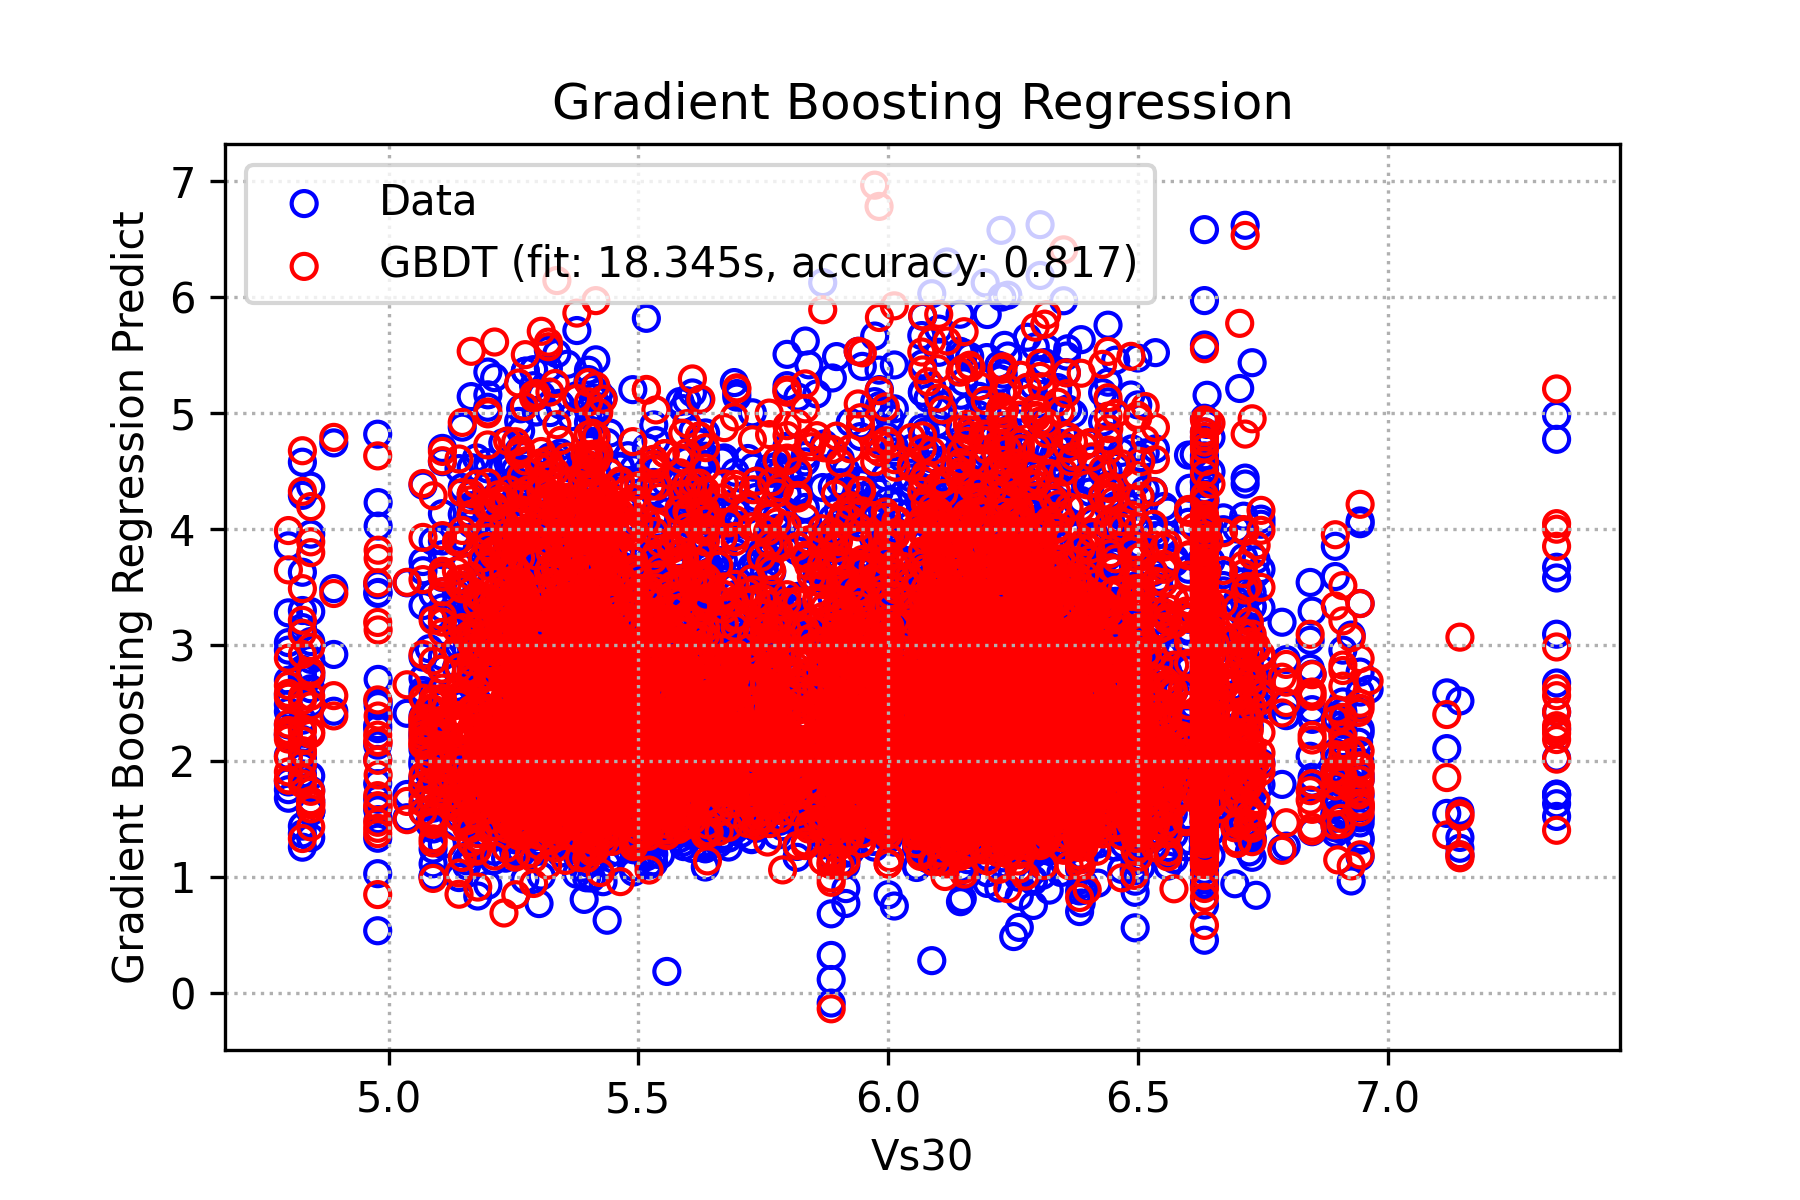
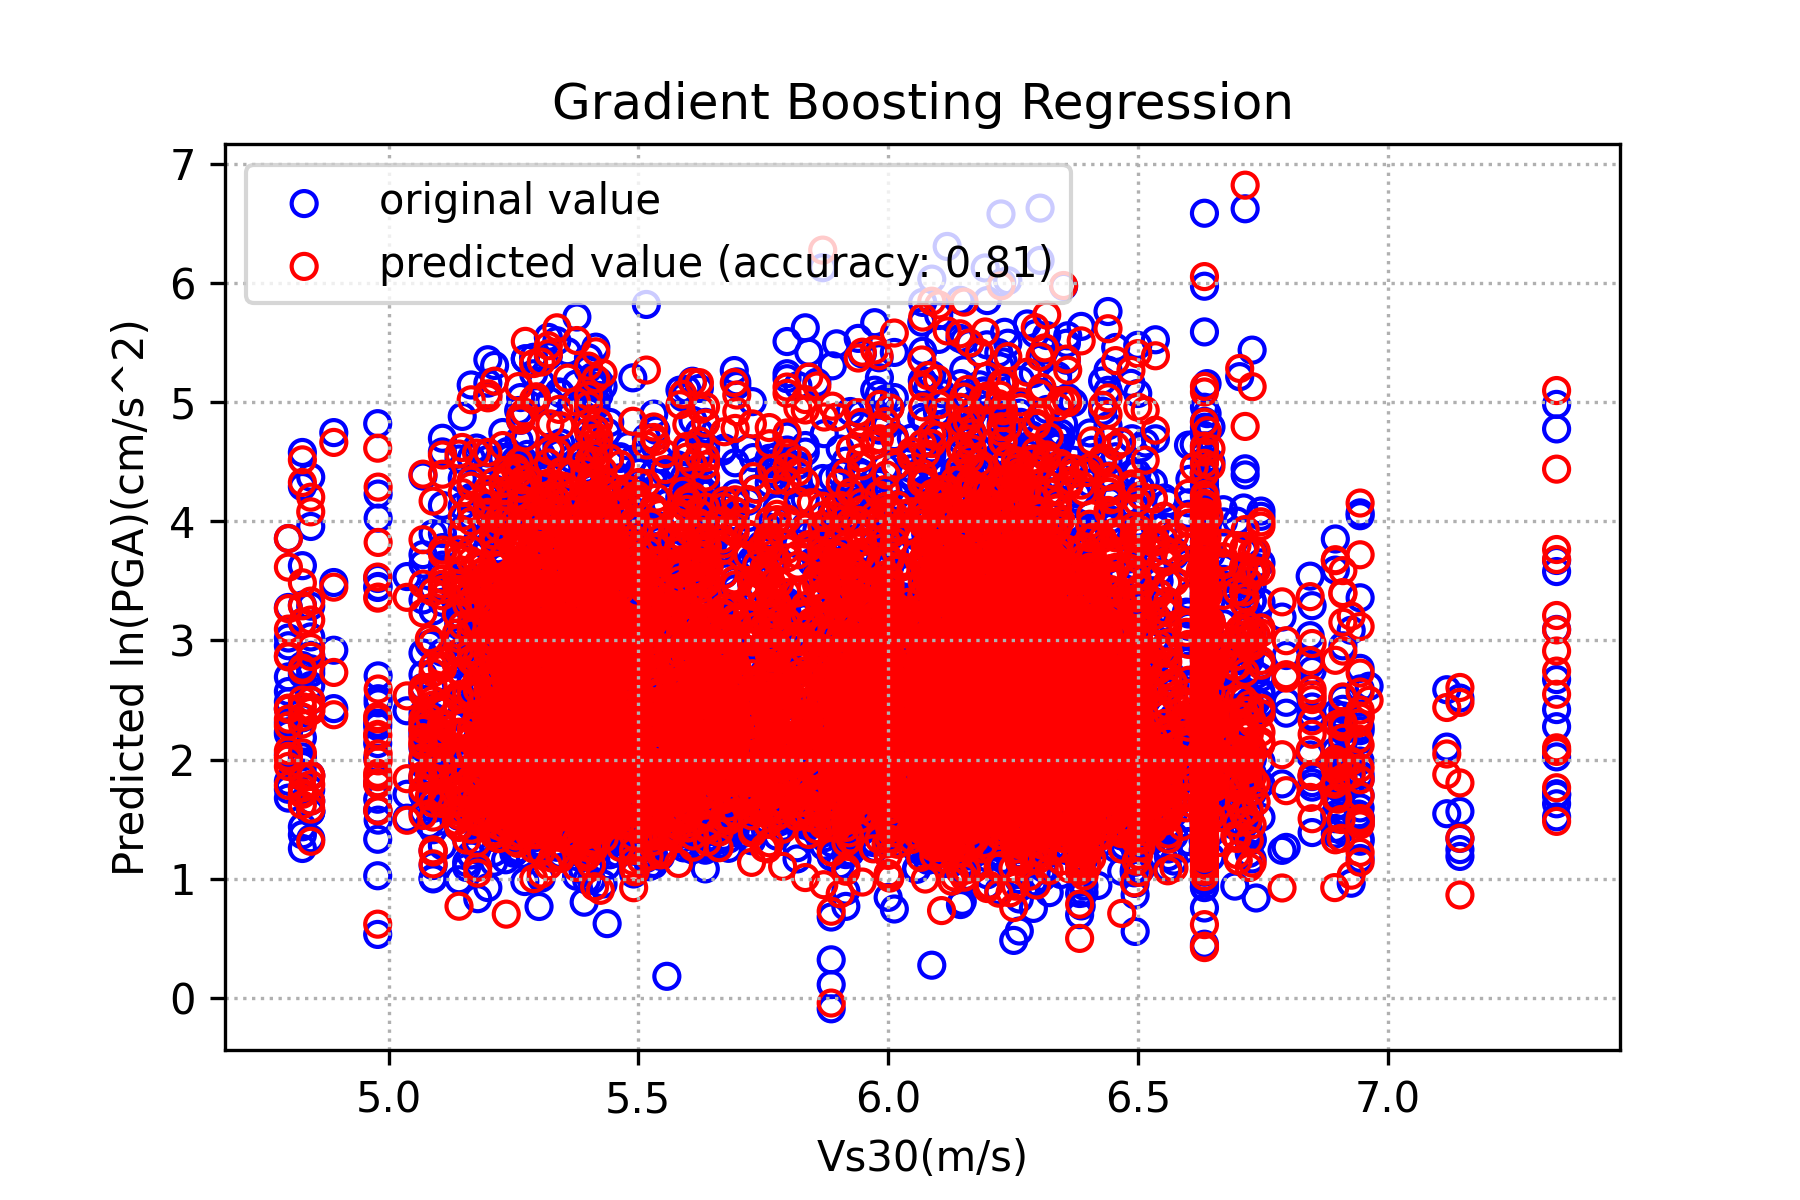
rejust figure

diff --git a/machine_learning/design_pattern/plot_figure.py b/machine_learning/design_pattern/plot_figure.py
@@ -28,11 +28,11 @@ class plot_fig:
                     marker='o',
                     facecolors='none',
                     edgecolors='b',
-                    label='Data')  #數據點
+                    label='original value')  #數據點
         plt.scatter(x_test[:,0], predict_value,marker='o',facecolors='none',edgecolors='r', \
-            label=f'{self.abbreviation_name} (fit: %.3fs, accuracy: %.3f)' % (fit_time, score)) #迴歸線
+            label=f'predicted value (accuracy: %.2f)' % (score)) #迴歸線
         plt.xlabel('Vs30(m/s)')
-        plt.ylabel(f'{self.model_name} Predict')
+        plt.ylabel(f'Predicted ln(PGA)(cm/s^2)')
         plt.title(f'{self.model_name}')
         plt.legend()
         plt.savefig(
@@ -47,11 +47,11 @@ class plot_fig:
                     marker='o',
                     facecolors='none',
                     edgecolors='b',
-                    label='Data')  #數據點
+                    label='original value')  #數據點
         plt.scatter(x_test[:,1], predict_value,marker='o',facecolors='none',edgecolors='r', \
-            label=f'{self.abbreviation_name} (fit: %.3fs, accuracy: %.3f)' % (fit_time, score)) #迴歸線
+            label=f'predicted value (accuracy: %.2f)' % (score)) #迴歸線
         plt.xlabel('Mw')
-        plt.ylabel(f'{self.model_name} Predict')
+        plt.ylabel(f'Predicted ln(PGA)(cm/s^2)')
         plt.title(f'{self.model_name}')
         plt.legend()
         plt.savefig(
@@ -66,15 +66,15 @@ class plot_fig:
                     marker='o',
                     facecolors='none',
                     edgecolors='b',
-                    label='Data')  #數據點
+                    label='original value')  #數據點
         plt.scatter(x_test[:,2], predict_value,marker='o',facecolors='none',edgecolors='r', \
-            label=f'{self.abbreviation_name} (fit: %.3fs, accuracy: %.3f)' % (fit_time, score)) #迴歸線
+            label=f'predicted value (accuracy: %.2f)' % (score)) #迴歸線
         plt.xlabel('ln(Rrup)(km)')
-        plt.ylabel(f'{self.model_name} Predict')
+        plt.ylabel(f'Predicted ln(PGA)(cm/s^2)')
         plt.title(f'{self.model_name}')
         plt.legend()
         plt.savefig(
-            f'../{self.abbreviation_name}/{self.SMOGN_TSMIP} Rrup-{self.model_name} Predict.png',
+            f'../{self.abbreviation_name}/{self.SMOGN_TSMIP} Rrup-{self.abbreviation_name} Predict.png',
             dpi=300)
         plt.show()
 
@@ -150,9 +150,9 @@ class plot_fig:
         plt.xlim(1e2, 2 * 1e3)
         plt.ylim(-3, 3)
         plt.xlabel('Vs30(m/s)')
-        plt.ylabel('Residual lnPGA(cm/s^2)')
+        plt.ylabel('Residual ln(PGA)(cm/s^2)')
         plt.title(
-            f'{self.SMOGN_TSMIP} {self.abbreviation_name} Predict Residual R2 score: %.3f'
+            f'{self.SMOGN_TSMIP} {self.abbreviation_name} Predicted Residual R2 score: %.3f'
             % (score))
         plt.savefig(
             f'../{self.abbreviation_name}/{self.SMOGN_TSMIP} Vs30-{self.abbreviation_name} Predict Residual.png',
@@ -218,9 +218,9 @@ class plot_fig:
         plt.xlim(3, 8)
         plt.ylim(-3, 3)
         plt.xlabel('Mw')
-        plt.ylabel('Residual lnPGA(cm/s^2)')
+        plt.ylabel('Residual ln(PGA)(cm/s^2)')
         plt.title(
-            f'{self.SMOGN_TSMIP} {self.abbreviation_name} Predict Residual R2 score: %.3f'
+            f'{self.SMOGN_TSMIP} {self.abbreviation_name} Predicted Residual R2 score: %.3f'
             % (score))
         plt.savefig(
             f'../{self.abbreviation_name}/{self.SMOGN_TSMIP} Mw-{self.abbreviation_name} Predict Residual.png',
@@ -286,9 +286,9 @@ class plot_fig:
         plt.xlim(5 * 1e0, 1e3)
         plt.ylim(-3, 3)
         plt.xlabel('Rrup(km)')
-        plt.ylabel('Residual lnPGA(cm/s^2)')
+        plt.ylabel('Residual ln(PGA)(cm/s^2)')
         plt.title(
-            f'{self.SMOGN_TSMIP} {self.abbreviation_name} Predict Residual R2 score: %.3f'
+            f'{self.SMOGN_TSMIP} {self.abbreviation_name} Predicted Residual R2 score: %.3f'
             % (score))
         plt.savefig(
             f'../{self.abbreviation_name}/{self.SMOGN_TSMIP} Rrup-{self.abbreviation_name} Predict Residual.png',
@@ -307,12 +307,12 @@ class plot_fig:
         plt.plot(x_line, y_line, color='blue')
         plt.xlabel('Measured ln(PGA)(cm/s^2)')
         plt.ylabel('Predict ln(PGA)(cm/s^2)')
-        plt.ylim(-5, 10)
-        plt.xlim(-5, 10)
+        plt.ylim(-2, 8)
+        plt.xlim(-2, 8)
         plt.title(
-            f'{self.SMOGN_TSMIP} {self.abbreviation_name} Measured Predict Distribution'
+            f'{self.SMOGN_TSMIP} {self.abbreviation_name} Measured Predicted Distribution'
         )
-        plt.text(6, -2, f"R2 score = {round(score,2)}")
+        plt.text(5, 0, f"R2 score = {round(score,2)}")
         plt.legend()
         plt.savefig(
             f'../{self.abbreviation_name}/{self.SMOGN_TSMIP} Measured Predict Comparison.png',
@@ -322,15 +322,16 @@ class plot_fig:
     def distance_scaling(self, distance, predict_value, score):
 
         ###################### PGA隨距離的衰減 #####################
+        
         plt.grid(linestyle=':')
-        plt.plot(distance, predict_value, linestyle="--", label="Prediction")
-        # plt.scatter(distance, predict_value,marker='o',facecolors='none',edgecolors='r', \
-        #     label='Prediction') #迴歸線.
+        # plt.plot(distance, predict_value, linestyle="--", label="Prediction")
+        plt.scatter(distance, predict_value,marker='o',facecolors='none',edgecolors='r', \
+            label='Prediction Result') #迴歸線.
         plt.xlabel('ln(Distance)(km)')
-        plt.ylabel('Predict ln(PGA)(cm/s^2)')
+        plt.ylabel('Predicted ln(PGA)(cm/s^2)')
         plt.title(
             f'{self.SMOGN_TSMIP} {self.abbreviation_name} Distance Scaling')
-        plt.text(0, 2, f"R2 score = {round(score,2)}")
+        plt.text(-1, 2, f"R2 score = {round(score,2)}")
         plt.legend()
         plt.savefig(
             f'../{self.abbreviation_name}/{self.SMOGN_TSMIP} Distance Scaling.png',
@@ -350,14 +351,17 @@ if __name__ == '__main__':
         "XGB", result_list[0], result_list[1], result_list[2], result_list[3])
 
     plot_something = plot_fig("XGBooster", "XGB", "TSMIP")
-    # plot_something.train_test_distribution(result_list[1], result_list[3], final_predict, fit_time, score)
-    # plot_something.residual(result_list[1], result_list[3], final_predict, score)
-    # plot_something.measured_predict(result_list[3], final_predict, score)
-    # 線性的distance_scaling
+    plot_something.train_test_distribution(result_list[1], result_list[3], final_predict, fit_time, score)
+    plot_something.residual(result_list[1], result_list[3], final_predict, score)
+    plot_something.measured_predict(result_list[3], final_predict, score)
     c = result_list[1].transpose(1, 0)
-    concat_data = np.concatenate((np.array([c[2]]), np.array([final_predict])),
-                                 axis=0).transpose(1, 0)
-    concat_data_df = pd.DataFrame(concat_data, columns=['dist', 'predict'])
-    concat_data_df = concat_data_df.sort_values(by=['dist'])
-    concat_data = np.array(concat_data_df).transpose(1, 0)
-    plot_something.distance_scaling(concat_data[0], concat_data[1], score)
+    plot_something.distance_scaling(c[2], final_predict, score)
+
+    # 線性的distance_scaling
+    # c = result_list[1].transpose(1, 0)
+    # concat_data = np.concatenate((np.array([c[2]]), np.array([final_predict])),
+    #                              axis=0).transpose(1, 0)
+    # concat_data_df = pd.DataFrame(concat_data, columns=['dist', 'predict'])
+    # concat_data_df = concat_data_df.sort_values(by=['dist'])
+    # concat_data = np.array(concat_data_df).transpose(1, 0)
+    # plot_something.distance_scaling(concat_data[0], concat_data[1], score)

diff --git a/machine_learning/design_pattern/process_train.py b/machine_learning/design_pattern/process_train.py
@@ -6,6 +6,7 @@ from sklearn.model_selection import train_test_split
 from sklearn.ensemble import GradientBoostingRegressor
 from sklearn.ensemble import RandomForestRegressor
 from sklearn.ensemble import AdaBoostRegressor
+from sklearn.model_selection import KFold
 from xgboost import XGBRegressor
 from sklearn.svm import SVR
 from sklearn.model_selection import GridSearchCV
@@ -57,7 +58,7 @@ class dataprocess:
             x = after_process_data.loc[:, [x for x in args]]
             y = after_process_data[target]
             print("--------not split_your_data----------")
-            return [x, y]
+            return [x.values, y.values]
 
     def training(self, model_name, x_train, x_test, y_train, y_test):
         assert model_name in [
@@ -146,9 +147,8 @@ class dataprocess:
         
         elif model_name == "XGB":
             XGB_params = {
-                'n_estimators': 3000,
-                'max_depth': 20,
-                'learning_rate': 0.5,
+                'n_estimators': 1000,
+                'max_depth': 10,
                 'n_jobs':-1
             }
             XGBModel = XGBRegressor(**XGB_params)

diff --git a/machine_learning/GBDT/GBDT_TSMIP.py b/machine_learning/GBDT/GBDT_TSMIP.py
@@ -19,9 +19,11 @@ result_ori = model.split_dataset(TSMIP_df, 'lnPGA(gal)', True, 'lnVs30',
                                   'MW', 'lnRrup', 'fault.type', 'STA_Lon_X',
                                   'STA_Lat_Y')
 score, feature_importances, fit_time, final_predict = model.training(
-    "GBDT", result_ori[0], result_ori[1], result_ori[2], result_ori[3])
+    "GBDT", result_SMOGN[0], result_ori[1], result_SMOGN[2], result_ori[3])
 
 plot_something = plot_fig("Gradient Boosting Regression","GBDT","SMOGN")
 plot_something.train_test_distribution(result_ori[1], result_ori[3], final_predict, fit_time, score)
 plot_something.residual(result_ori[1], result_ori[3], final_predict, score)
 plot_something.measured_predict(result_ori[3], final_predict, score)
+c = result_ori[1].transpose(1, 0)
+plot_something.distance_scaling(c[2], final_predict, score)

diff --git a/machine_learning/XGB/XGB_TSMIP.py b/machine_learning/XGB/XGB_TSMIP.py
@@ -25,4 +25,5 @@ plot_something = plot_fig("XGBooster","XGB","SMOGN")
 plot_something.train_test_distribution(result_ori[1], result_ori[3], final_predict, fit_time, score)
 plot_something.residual(result_ori[1], result_ori[3], final_predict, score)
 plot_something.measured_predict(result_ori[3], final_predict, score)
-
+c = result_ori[1].transpose(1, 0)
+plot_something.distance_scaling(c[2], final_predict, score)

diff --git a/machine_learning/XGB/XGB_TSMIP_backup.py b/machine_learning/XGB/XGB_TSMIP_backup.py
@@ -97,7 +97,7 @@ score = XGBModel.score(x_test, y_test)
 print("test_R2_score :", score)
 
 # # Cross_validation計算成績
-scores = cross_val_score(XGBModel, x_train, y_train, cv=6, n_jobs=-1)
+scores = cross_val_score(XGBModel, x_SMOGN, y_SMOGN, cv=6, n_jobs=-1)
 print("cross_val R2 score:", scores)
 ###################### visual tree #########################
 
